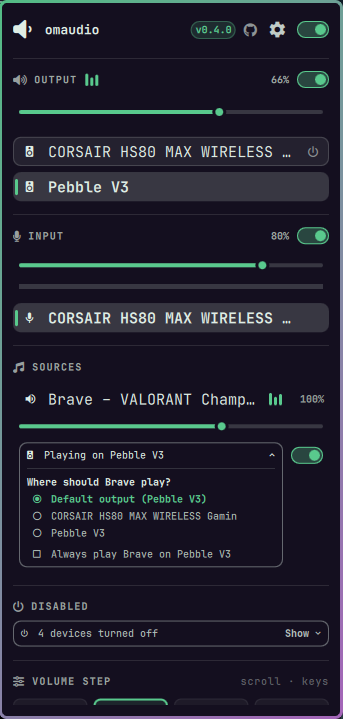
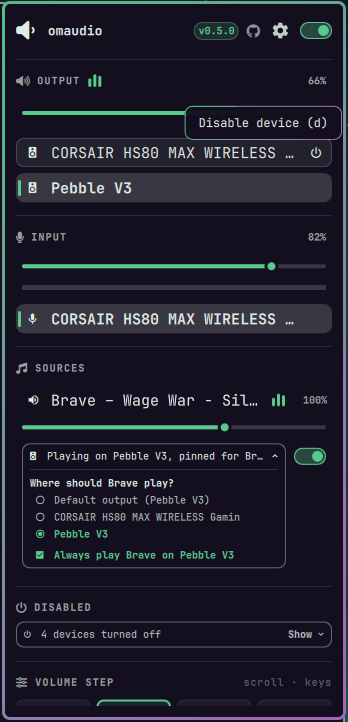
Retake the screenshots for 0.5.0
New main, output picker and settings images, plus the settings view with
accent colours off, a fresh disable-hover crop and the preview.

diff --git a/assets/preview.html b/assets/preview.html
@@ -30,6 +30,7 @@ li span{color:#9dbcb1}
   <li>Route &amp; pin apps <span>to any output</span></li>
   <li>Mute output, input <span>or any app</span></li>
   <li>Live playing bars <span>in your accent</span></li>
+  <li>Bar icon that fills <span>with the level</span></li>
   <li>Browser tab titles <span>in the mixer</span></li>
   <li>Density, font &amp; accent <span>from your theme</span></li>
  </ul>

diff --git a/README.md b/README.md
@@ -47,7 +47,8 @@ pickers, the per-app mixer, keyboard navigation — and it adds:
   output field under each app, the version and GitHub link, the Disabled
   section or the volume step footer.
 
-  <img src="assets/omaudiosettings.png" alt="The settings view: density, font size, accent colour swatches from the theme's palette, switches for each part of the panel and the volume step" width="300">
+  <img src="assets/omaudiosettings.png" alt="The settings view: density, font size, the accent colours switch on, swatches from the theme's palette, switches for each part of the panel and the volume step" width="300">
+  <img src="assets/omaudiosettingsneutral.png" alt="The same settings view with accent colours switched off: every highlight is grey and white" width="300">
 
 Changing the default output also leaves apps you routed or pinned where they
 are, instead of moving every stream to the new default.
